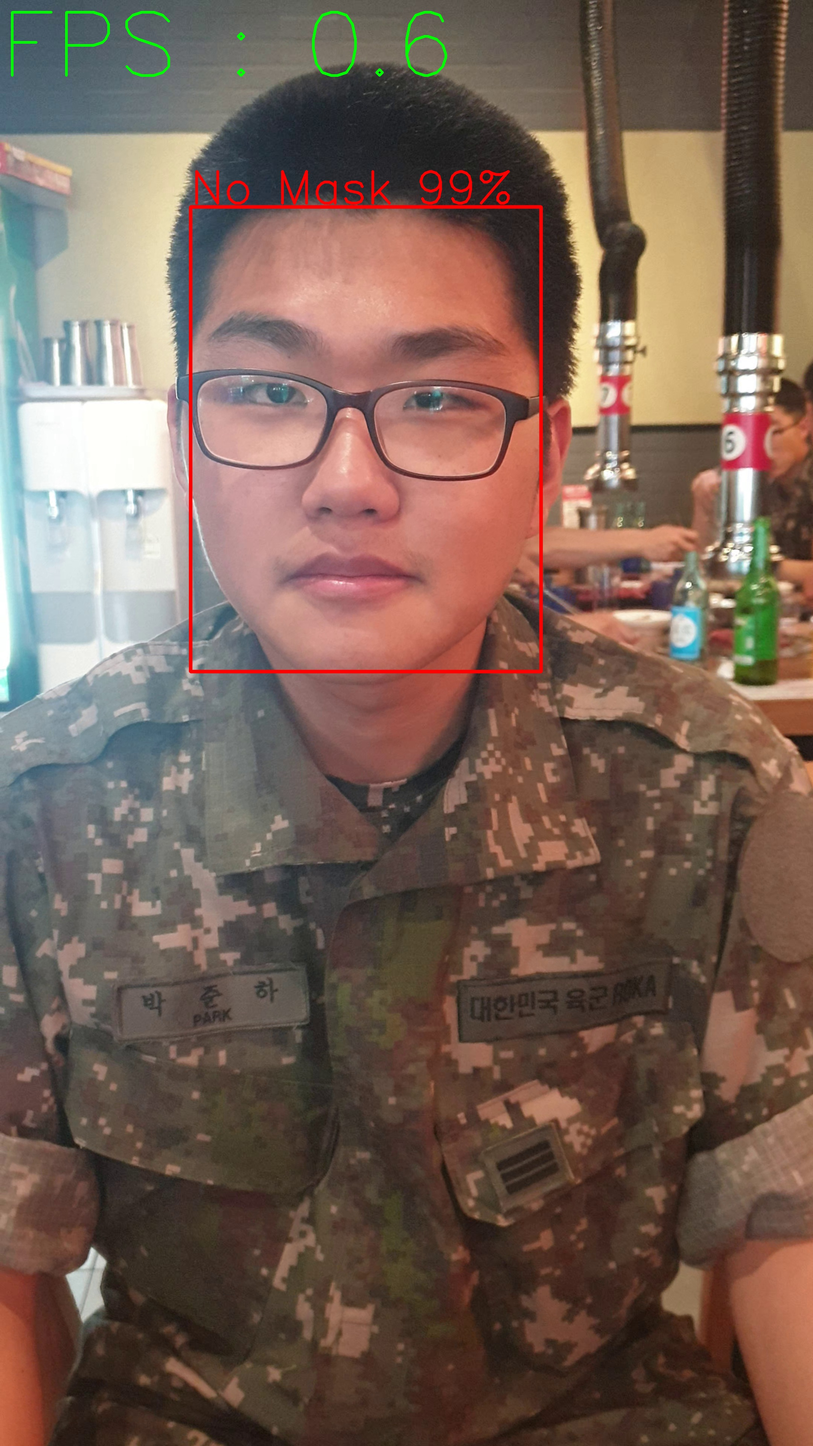
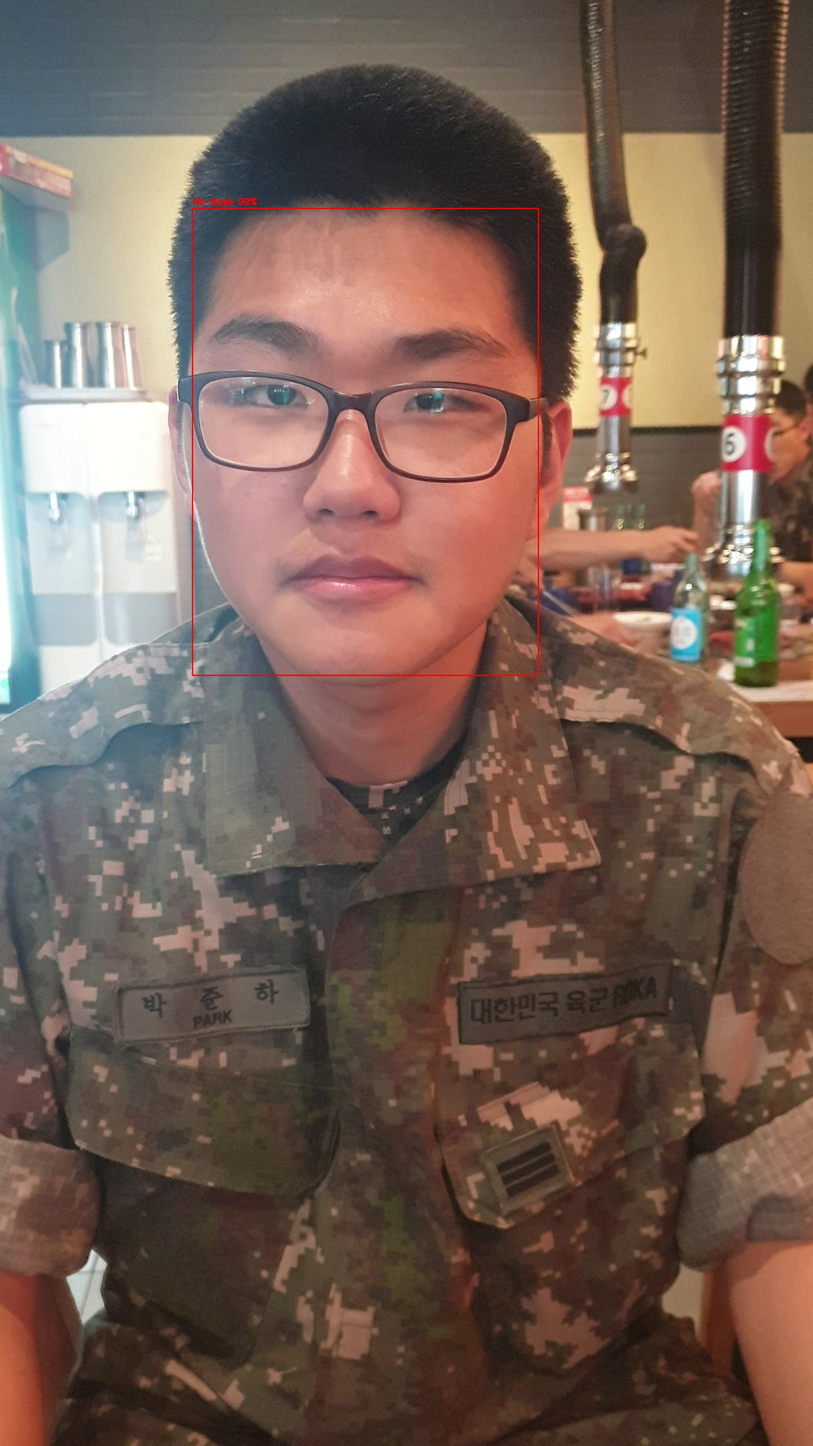
main.py change

diff --git a/main.py b/main.py
@@ -134,7 +134,7 @@ while cap.isOpened():
 
             #############################################################################
             # GoogleVisionAPI branch  에서 추가한 내용
-            #IMAGE_FILE = 'No_Mask_File/' + str(i) + '_' + str('No_Mask%d%%_' % (nomask * 100) + str(number)) + '.jpg'
+            IMAGE_FILE = 'No_Mask_File/' + str(i) + '_' + str('No_Mask%d%%_' % (nomask * 100) + str(number)) + '.jpg'
             # FOLDER_PATH = r'C:\Users\Administrator\anaconda3\envs\VisionAPIDemo'
             # FILE_PATH = os.path.join(FOLDER_PATH, IMAGE_FILE)
             #Name_img = img[y2:h, 0:(x1+x2)/2]
@@ -152,16 +152,34 @@ while cap.isOpened():
             # response = client.document_text_detection(image=image)
             # docText = response.full_text_annotation.text
 
-            name_img = img[y2:h, 0:(x1+x2)//2]
-            is_success, im_buf_arr = cv2.imencode(".jpg",name_img)
-            io_buf = io.BytesIO(im_buf_arr)
-            byte_im = io_buf.getvalue()
-            image = vision.Image(content=byte_im)
+            # name_img = img[y2:h, 0:(x1+x2)//2]
+            # is_success, im_buf_arr = cv2.imencode(".jpg",name_img)
+            # io_buf = io.BytesIO(im_buf_arr)
+            # byte_im = io_buf.getvalue()
+            # image = vision.Image(content=byte_im)
+            # response = client.document_text_detection(image=image)
+            # docText = response.full_text_annotation.text
+
+
+            with io.open(IMAGE_FILE, 'rb') as image_file:
+                content = image_file.read()
+
+            image = vision.Image(content=content)
             response = client.document_text_detection(image=image)
-            docText = response.full_text_annotation.text
+            Final_Text = ""
+            for data in response.text_annotations:
+                xx1 = data.bounding_poly.vertices[0].x - 60 # 박스가 너무 오른쪽으로 나옴 그래서 수정함.
+                yy1 = data.bounding_poly.vertices[0].y
+                xx2 = data.bounding_poly.vertices[2].x
+                yy2 = data.bounding_poly.vertices[2].y + 20
+                if xx1 > (x1+x2)//2 or xx2 > (x1+x2)//2:
+                    continue
+                for x in data.description:
+                    if ord('가') <= ord(x) <= ord('힣'):
+                        cv2.rectangle(result_img, pt1=(xx1, yy1), pt2=(xx2, yy2), thickness=7, color=color, lineType=cv2.LINE_AA)
+                        Final_Text += x
 
-
-
+            print('한글 -> ' + Final_Text)
 
             # with io.open(IMAGE_FILE, 'rb') as image_file:
             #     content = image_file.read()
@@ -174,15 +192,15 @@ while cap.isOpened():
 
 
 
-            # 한글만 가져오는 코드
-            Final_Text = ""
-            Flag = False
-            for x in docText:
-                if ord('가') <= ord(x) <= ord('힣'):
-                    Flag = True
-                    Final_Text += x
+            # # 한글만 가져오는 코드
+            # Final_Text = ""
+            # Flag = False
+            # for x in docText:
+            #     if ord('가') <= ord(x) <= ord('힣'):
+            #         Flag = True
+            #         Final_Text += x
 
-            print('한글 -> ' + Final_Text)
+            # print('한글 -> ' + Final_Text)
 
             #############################################################################
             message_description = '이름 :' + Final_Text + '\n해당인원 온도 :' + str(temperature) + '\n마스크 미착용 확률 : ' + str('%d%%' % (nomask * 100))
@@ -224,8 +242,8 @@ while cap.isOpened():
             #     print('메시지를 성공적으로 보내지 못했습니다. 오류메시지 : ' + str(response.json()))
 
     out.write(result_img)
-    #resized_img = cv2.resize(result_img, dsize=(0, 0), fx=0.3, fy=0.3, interpolation=cv2.INTER_LINEAR)
-    cv2.imshow('result', result_img)  # 실시간 모니터링하고 있는 화면을 띄워줌
+    resized_img = cv2.resize(result_img, dsize=(0, 0), fx=0.3, fy=0.3, interpolation=cv2.INTER_LINEAR)
+    cv2.imshow('result', resized_img)  # 실시간 모니터링하고 있는 화면을 띄워줌
     if cv2.waitKey(1) == ord('q'):  # q누르면 동영상 종료
         break
 
